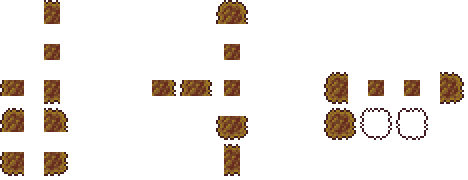
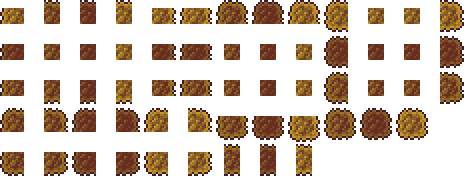
Bush

diff --git a/Tiles/Overgrow/OvergrowBlocks.cs b/Tiles/Overgrow/OvergrowBlocks.cs
@@ -34,7 +34,8 @@ namespace StarlightRiver.Tiles.Overgrow
         public override void DrawEffects(int i, int j, SpriteBatch spriteBatch, ref Color drawColor, ref int nextSpecialDrawIndex)
         {
             Random rand = new Random(i * j * j);
-            if (rand.Next(30) == 0 && i != 1 && j != 1)
+            Tile tile = Main.tile[i, j];
+            if (rand.Next(30) == 0 && i != 1 && j != 1 && tile.frameX > 10 && tile.frameX < 70 && tile.frameY == 18)
             {
                 Main.specX[nextSpecialDrawIndex] = i;
                 Main.specY[nextSpecialDrawIndex] = j;
@@ -43,12 +44,8 @@ namespace StarlightRiver.Tiles.Overgrow
         }
         public override void SpecialDraw(int i, int j, SpriteBatch spriteBatch)
         {
-            Random rand = new Random(i * j * j);
-            if (rand.Next(30) == 0 && i != 1 && j != 1)
-            {
-                Texture2D tex = ModContent.GetTexture("StarlightRiver/Tiles/Overgrow/Blob");
-                spriteBatch.Draw(tex, (Helper.TileAdj + new Vector2(i, j)) * 16 + Vector2.One * 8 - Main.screenPosition, new Rectangle(rand.Next(4) * 40, 0, 40, 50), Lighting.GetColor(i, j), 0, new Vector2(20, 25), 1, 0, 0);
-            }
+            Texture2D tex = ModContent.GetTexture("StarlightRiver/Tiles/Overgrow/Blob");
+            spriteBatch.Draw(tex, (Helper.TileAdj + new Vector2(i, j)) * 16 + Vector2.One * 8 - Main.screenPosition, new Rectangle(i * j % 4 * 40, 0, 40, 50), Lighting.GetColor(i, j), 0, new Vector2(20, 25), 1, 0, 0);
         }
     }
     class GlowBrickOvergrow : ModTile
@@ -137,12 +134,12 @@ namespace StarlightRiver.Tiles.Overgrow
             Color color = Lighting.GetColor(i, j);
 
             Vector2 crunch = new Vector2(0, -5);
-            if (Main.player.Any(n => n.Hitbox.Intersects(new Rectangle(i * 16 - 8, j * 16 - 1, 16, 1)))) crunch.Y += 2;
-            if (Main.player.Any(n => n.Hitbox.Intersects(new Rectangle(i * 16, j * 16 - 1, 8, 1)))) crunch.Y += 3;
+            if (Main.player.Any(n => n.Hitbox.Intersects(new Rectangle(i * 16 - 8, j * 16 - 1, 16, 1)))) crunch.Y += 1;
+            if (Main.player.Any(n => n.Hitbox.Intersects(new Rectangle(i * 16, j * 16 - 1, 8, 1)))) crunch.Y += 2;
 
             Vector2 crunch2 = new Vector2(0, -4);
-            if (Main.player.Any(n => n.Hitbox.Intersects(new Rectangle(i * 16 + 8, j * 16 - 1, 16, 1)))) crunch2.Y += 2;
-            if (Main.player.Any(n => n.Hitbox.Intersects(new Rectangle(i * 16 + 8, j * 16 - 1, 8, 1)))) crunch2.Y += 3;
+            if (Main.player.Any(n => n.Hitbox.Intersects(new Rectangle(i * 16 + 8, j * 16 - 1, 16, 1)))) crunch2.Y += 1;
+            if (Main.player.Any(n => n.Hitbox.Intersects(new Rectangle(i * 16 + 8, j * 16 - 1, 8, 1)))) crunch2.Y += 2;
 
 
             if (tile.frameX >= 10 && tile.frameX < 70 && tile.frameY == 0)
@@ -218,7 +215,6 @@ namespace StarlightRiver.Tiles.Overgrow
 
         public override void KillTile(int i, int j, ref bool fail, ref bool effectOnly, ref bool noItem)
         {
-            Main.NewText("PENIS");
         }
     }
 

diff --git a/Tiles/Overgrow/OvergrowWall.cs b/Tiles/Overgrow/OvergrowWall.cs
@@ -1,5 +1,6 @@
 using Microsoft.Xna.Framework;
 using Microsoft.Xna.Framework.Graphics;
+using System;
 using Terraria;
 using Terraria.ID;
 using Terraria.ModLoader;
@@ -13,6 +14,14 @@ namespace StarlightRiver.Tiles.Overgrow
             Main.wallHouse[Type] = true;
             dustType = mod.DustType("Gold2");
             AddMapEntry(new Color(114, 65, 37));
+        }
+        public override void PostDraw(int i, int j, SpriteBatch spriteBatch)
+        {
+            Texture2D tex = ModContent.GetTexture("StarlightRiver/Tiles/Overgrow/WallOvergrowGrassFlow");
+            float offset = i * j % 6.28f;
+            float sin = (float)Math.Sin(LegendWorld.rottime + offset);
+            spriteBatch.Draw(tex, (new Vector2(i + 0.5f, j + 0.5f) + Helper.TileAdj) * 16 + new Vector2(1, 0.5f) * sin * 1.2f - Main.screenPosition, 
+                new Rectangle(i % 4 * 26, 0, 24, 24), Lighting.GetColor(i, j), offset + sin * 0.06f, new Vector2(12, 12), 1 + sin/14f, 0, 0);
         }
     }
     public class WallOvergrowBrick : ModWall

diff --git a/StarlightRiver.cs b/StarlightRiver.cs
@@ -246,7 +246,7 @@ namespace StarlightRiver
             if (Main.LocalPlayer.GetModPlayer<BiomeHandler>().ZoneOvergrow)
             {
                 int direction = Main.dungeonX > Main.spawnTileX ? -1 : 1;
-                if (Main.rand.Next(7) == 0)
+                if (Main.rand.Next(9) == 0)
                     for (int k = 0; k < 10; k++)
                     {
                         foregroundDusts.Add(new OvergrowForegroundDust(direction * 800 * k + Main.rand.Next(80), 1.4f, new Vector2(0, -Main.rand.NextFloat(2.5f, 3)), Color.White * 0.005f, Main.rand.NextFloat(1, 2)));

diff --git a/Items/Debug/DebugItems.cs b/Items/Debug/DebugItems.cs
@@ -236,7 +236,7 @@ namespace StarlightRiver.Items.Debug
             item.useAnimation = 10;
             item.useTime = 10;
             item.rare = 2;
-            item.createTile = ModContent.TileType<Tiles.Overgrow.OvergrowLock>();
+            item.createTile = ModContent.TileType<Tiles.Overgrow.BulbFruit>();
             item.noUseGraphic = true;
         }
         public override string Texture => "StarlightRiver/MarioCumming";
